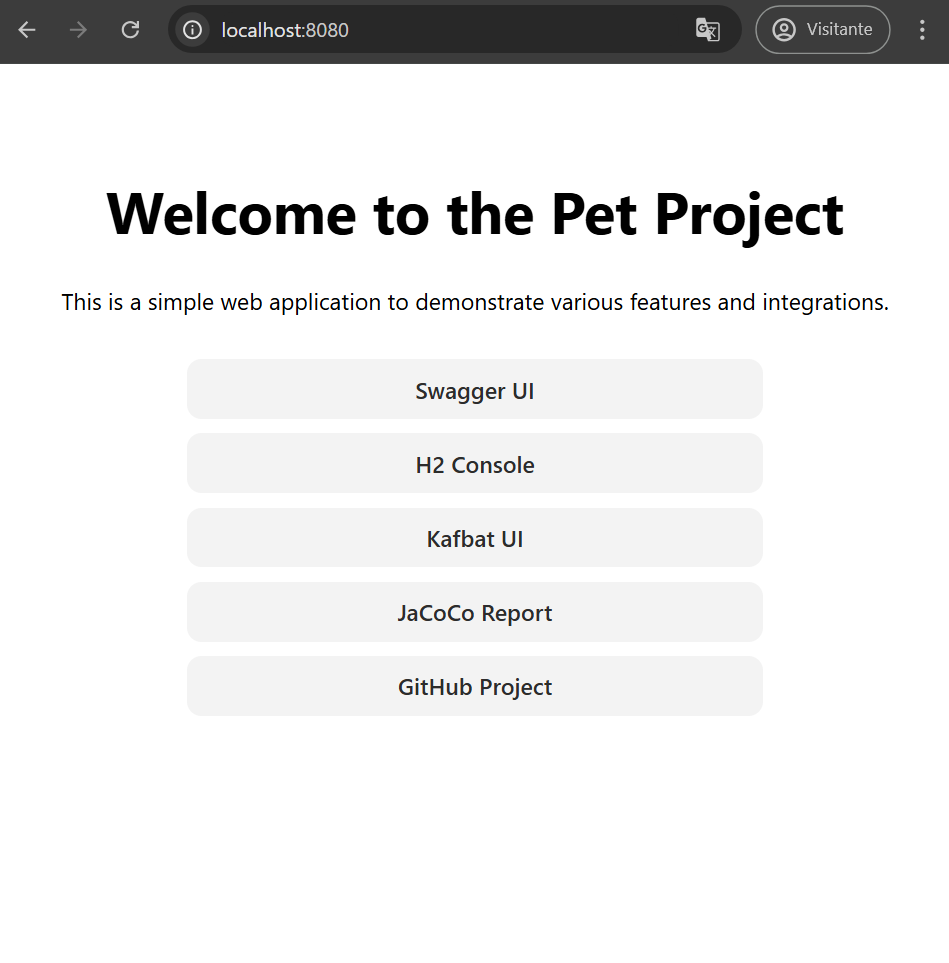
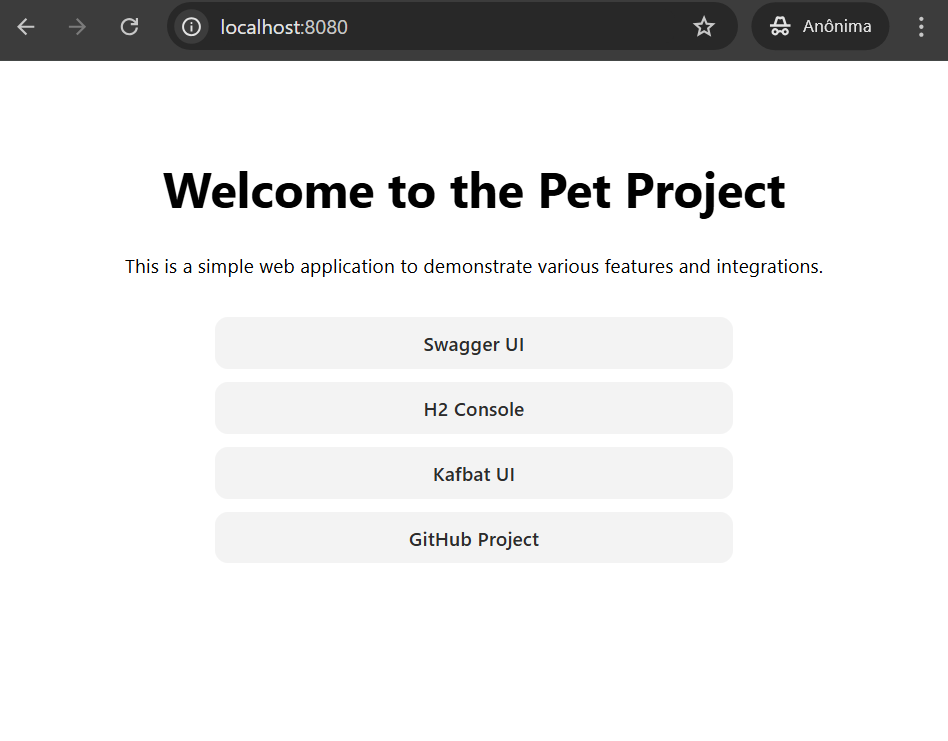
feature: update gitflow

diff --git a/src/main/resources/static/index.html b/src/main/resources/static/index.html
@@ -12,6 +12,7 @@
         <li><a href="/swagger-ui/index.html" target="_blank">Swagger UI</a></li>
         <li><a href="/h2-console" target="_blank">H2 Console</a></li>
         <li><a id="kafbat-link" href="" target="_blank">Kafbat UI</a></li>
+        <li><a id="jacoco-link" href="https://ambrosiaandrade.github.io/pets/jacoco/index.html" target="_blank">JaCoCo Report</a></li>
         <li><a href="https://github.com/ambrosiaandrade/pets/" target="_blank">GitHub Project</a></li>
     </ul>
 
@@ -24,6 +25,8 @@
         let isLocalhost = kafbatUrl.startsWith("http://localhost");
         if (!isLocalhost) {
           document.getElementById('kafbat-link').style.display = 'none';
+        } else {
+          document.getElementById('jacoco-link').style.display = 'none';
         }
     </script>
 

diff --git a/README.md b/README.md
@@ -55,7 +55,7 @@ This project is a comprehensive toolbox application featuring robust CRUD operat
 
 [![Spring Boot][springboot-shield]][springboot-url] [![Spring Data JPA][jpa-shield]][jpa-url] [![Spring Web][web-shield]][web-url] [![Spring Boot Test][test-shield]][test-url] [![Springdoc OpenAPI][springdoc-shield]][springdoc-url] [![Spring Actuator][actuator-shield]][actuator-url] [![Spring Cache][cache-shield]][cache-url] [![DevTools][devtools-shield]][devtools-url]
 
-[![Java][java-shield]][java-url] [![Maven][maven-shield]][maven-url] [![Kafka][kafka-shield]][kafka-url] [![Kafka UI][kafbat-shield]][kafbat-url] [![Docker][docker-shield]][docker-url] [![JUnit 5][junit5-shield]][junit5-url] [![Mockito][mockito-shield]][mockito-url] [![Swagger UI][swagger-shield]][swagger-url] [![H2 Database][h2-shield]][h2-url] [![Lombok][lombok-shield]][lombok-url] [![MapStruct][mapstruct-shield]][mapstruct-url] [![OpenCSV][opencsv-shield]][opencsv-url] [![OpenPDF][openpdf-shield]][openpdf-url] ![Coverage](https://img.shields.io/badge/Coverage-80%25-brightgreen?style=for-the-badge&logo=jacoco)
+[![Java][java-shield]][java-url] [![Maven][maven-shield]][maven-url] [![Kafka][kafka-shield]][kafka-url] [![Kafka UI][kafbat-shield]][kafbat-url] [![Docker][docker-shield]][docker-url] [![JUnit 5][junit5-shield]][junit5-url] [![Mockito][mockito-shield]][mockito-url] [![Swagger UI][swagger-shield]][swagger-url] [![H2 Database][h2-shield]][h2-url] [![Lombok][lombok-shield]][lombok-url] [![MapStruct][mapstruct-shield]][mapstruct-url] [![OpenCSV][opencsv-shield]][opencsv-url] [![OpenPDF][openpdf-shield]][openpdf-url] [![Coverage](https://img.shields.io/badge/Coverage-80%25-brightgreen?style=for-the-badge&logo=jacoco)](https://ambrosiaandrade.github.io/pets/jacoco/index.html)
 
 ### 💡 Getting Started
 
@@ -74,9 +74,6 @@ You should have the following installed in your machine:
     docker-compose up --build
     ```
     ![docker-compose-up](./images/docker-compose-up.png)
-- Ensure that the containers (Kafka and Kafbat UI) are running
-    ![docker-ps](./images/docker-ps.png)
-    _OBS: Note: Kafbat is a web-based UI for managing Apache Kafka topics and messages._
 
 ### 🚀 Demo
 
@@ -84,30 +81,41 @@ You can check the [Pet Project here](https://pets-00xb.onrender.com/)
 
 The `index.html` serves as a lightweight dashboard offering quick access to Swagger, H2 Console, Kafka UI, JaCoCo reports, and the GitHub repo.
 
-_PS: Kafka UI is available only when running locally (i.e., using the dev Spring profile with Docker Compose). In production, Kafka is disabled._
+_Note1: Kafka UI is available only when running locally (i.e., using the dev Spring profile with Docker Compose). In production, Kafka is disabled._
 
-Interaction between Swagger and Kafbat UI:
-![showcase-kafka-kafbat_ui](images/showcase-kafka-kafbat_ui.gif)
+_Note2: JaCoCo is only available in production via GitHub Pages. Locally, it can be accessed at ``target/site/jacoco/index.html`` after running tests._
 
 Localhost
 ![home-page-1](./images/home-page-1.png)
-Deployed
+Deployed at [Render](https://render.com/)
 ![home-page-2](./images/home-page-2.png)
 
+### 🗂 Folder Structure
 
-### 🏗 Folder Structure
+The project follows a clean, modular organization based on MVC principles:
+
 ```bash
 src/
-├── main/
-│   ├── java/
-│   │   └── com/ambrosiaandrade/pets/
-│   │       ├── controller/
-│   │       ├── service/
-│   │       ├── model/
-│   │       └── ...
-│   └── resources/
-│       └── static/
-└── test/
+└── main/
+    ├── java/com/ambrosiaandrade/pets/
+    │   ├── config/         # Spring configuration classes
+    │   ├── controller/     # REST controllers (web layer)
+    │   ├── entities/       # JPA entities
+    │   ├── enums/          # Domain enumerations
+    │   ├── exceptions/     # Custom exception classes
+    │   ├── interfaces/     # Mapper and service interfaces
+    │   ├── listener/       # Event listeners
+    │   ├── models/         # DTOs and domain models
+    │   ├── repositories/   # Spring Data JPA interfaces
+    │   ├── service/        # Business logic layer
+    │   └── PetsApplication # Main Spring Boot application class
+    └── resources/
+        ├── static/         # Static assets (index.html, CSS, favicon)
+        ├── application.properties
+        ├── application-dev.properties
+        ├── application-prod.properties
+        └── data.sql        # Sample data initialization
+
 ```
 
 ### 🔗 Useful Links
@@ -178,7 +186,7 @@ This controller serves as a demonstration of asynchronous processing in Java. It
 ### 🧪 Testing
 
 This project uses JUnit and Spring Boot Test for unit testing, along with Mockito for mocking dependencies.  
-Code coverage is enforced with JaCoCo (80% minimum threshold), and the report is generated under `/static/jacoco/index.html`.
+Code coverage is enforced with JaCoCo (80% minimum threshold), and the report is generated under `target/site/jacoco/index.html` locally or `https://ambrosiaandrade.github.io/pets/jacoco/index.html` in production.
 
 To run tests:
 ```sh
@@ -192,8 +200,6 @@ Every push and pull request triggers the workflow to:
 
 - Build the project
 - Run all tests and enforce code coverage
-- Build and (optionally) push Docker images
-- (Optionally) Deploy to your server or cloud
 
 You can find the workflow definition in [`.github/workflows/`](.github/workflows/) in this repository.
 
@@ -211,6 +217,13 @@ Contributions are welcome! If you'd like to help improve this project, feel free
 ### 📝 License
 
 This project is licensed under the **[MIT License](LICENSE)** — see the file for details.
+
+---
+> Built with ❤ using Spring Boot 3, MapStruct, Kafka, Docker, and CI/CD.  
+> Ideal for learning, reference, or as a professional microservice template.
+
+[![GitHub Stars](https://img.shields.io/github/stars/ambrosiaandrade/pets?style=social)](https://github.com/ambrosiaandrade/pets/stargazers)
+[![Last Commit](https://img.shields.io/github/last-commit/ambrosiaandrade/pets?color=informational)](https://github.com/ambrosiaandrade/pets)
 
 <!-- MARKDOWN LINKS & IMAGES -->
 
